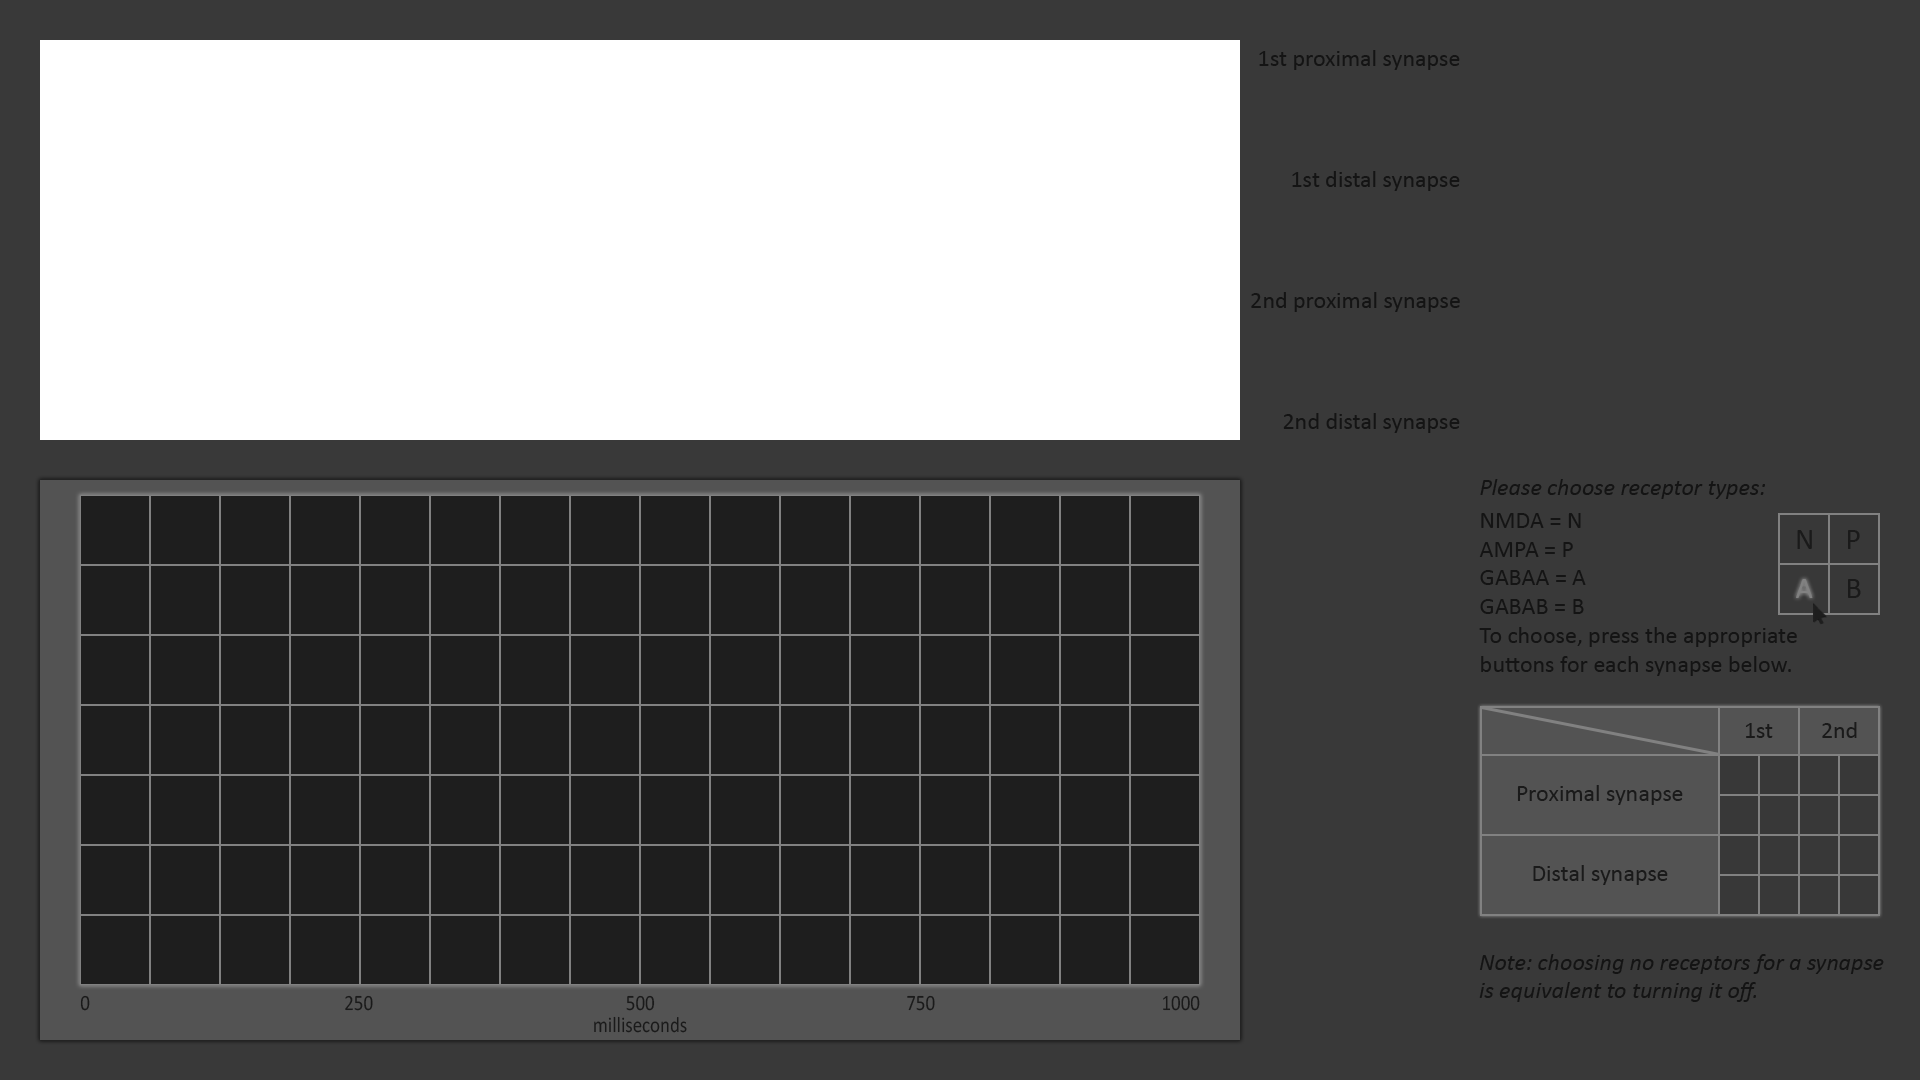
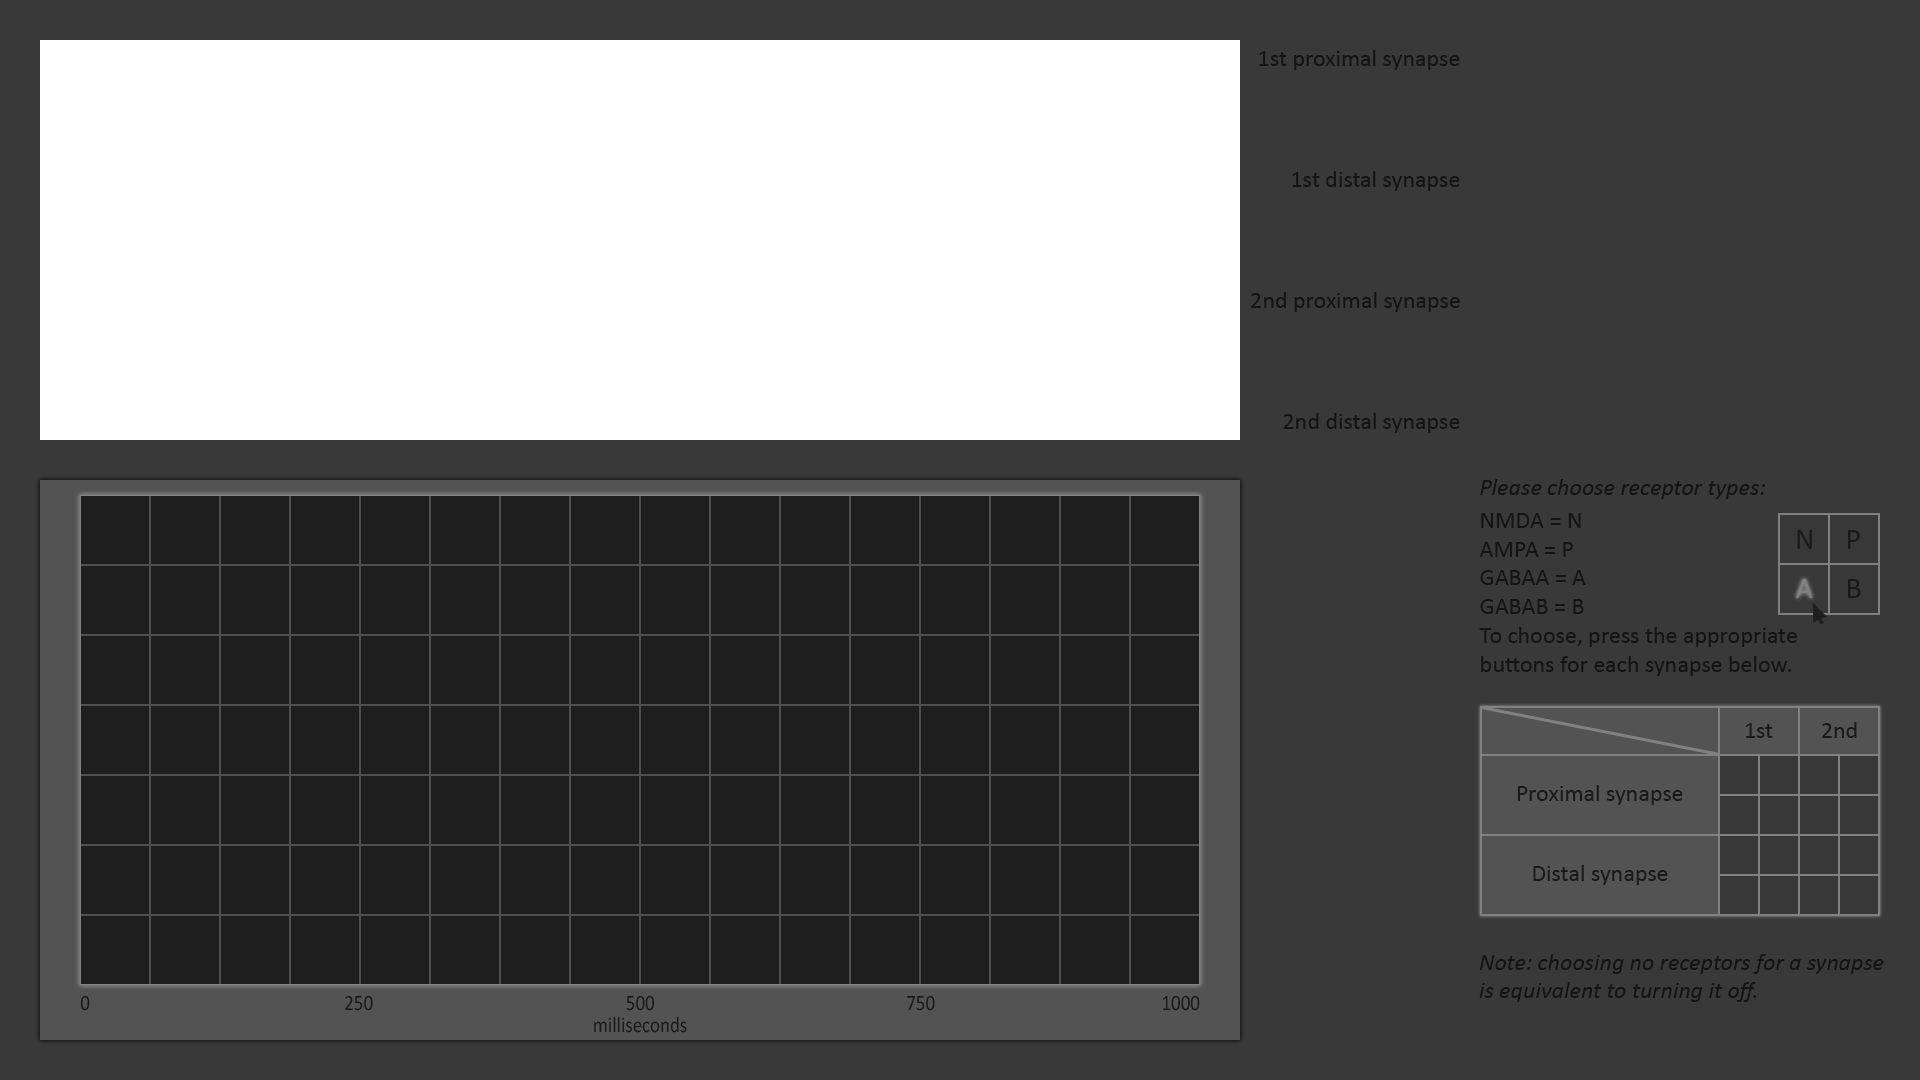
resizing plotting (final?) and darkening oscilloscope

diff --git a/exect_hh.py b/exect_hh.py
@@ -299,30 +299,35 @@ def calculate(timing, strength, caching):
             '''
             if does_cache:
                 holder_list.append(y)
-                fig, ax = plt.subplots(figsize=(15.2, 6.335)) 
+                fig, ax = plt.subplots(figsize=(15.15, 6.335)) 
                 for plots in holder_list[:len(holder_list)-1]:
                     ax.plot(x, plots, '#d2d2d2', alpha = 0)
                 ax.plot(x, holder_list[-1],'#d2d2d2') 
                 ax.yaxis.set_major_formatter(FormatStrFormatter('%.1f'))
-                ax.set_xlim(xmin=-5.0)
-                fig_c, ax_c = plt.subplots(figsize=(15.2, 6.335)) 
+                ax.set_xlim(xmin=-2.0)
+                ax.tick_params(pad=0.0, labelsize=10, length=2, labelcolor='#1a1a1a')
+                fig_c, ax_c = plt.subplots(figsize=(15.15, 6.335)) 
                 for plots in holder_list[:len(holder_list)-1]:
                     ax_c.plot(x, plots, '#404040')
                 ax_c.plot(x, holder_list[-1],'#d2d2d2', alpha=0)
-                ax_c.set_xlim(xmin=-5.0)
+                ax_c.set_xlim(xmin=-2.0)
+                ax_c.tick_params(pad=0.0, labelsize=10, length=2, labelcolor='#1a1a1a')
                 ax_c.yaxis.set_major_formatter(FormatStrFormatter('%.1f'))
                 print('success cache')
                 return fig, ax, fig_c, ax_c, [min(y)/volt, max(y)/volt]
             else: 
                 holder_list = []
                 holder_list.append(y)
-                fig, ax = plt.subplots(figsize=(15.2, 6.335)) 
+                fig, ax = plt.subplots(figsize=(15.15, 6.335)) 
                 # 13.13, 5.67
                 ax.plot(x, y, '#d2d2d2')
-                ax.set_xlim(xmin=-5.0)
-                fig_c, ax_c = plt.subplots(figsize=(15.2, 6.335)) 
+                ax.set_xlim(xmin=-2.0)
+                ax.tick_params(pad=0.0, labelsize=10, length=2, labelcolor='#1a1a1a')
+                fig_c, ax_c = plt.subplots(figsize=(15.15, 6.335)) 
                 #это ось
                 ax_c.plot(x, y, '#404040', alpha = 0)
+                ax_c.set_xlim(xmin=-2.0)
+                ax_c.tick_params(pad=0.0, labelsize=10, length=2, labelcolor='#1a1a1a')
                 ax.yaxis.set_major_formatter(FormatStrFormatter('%.1f'))
                 print('success no cache')
                 return fig, ax, fig_c, ax_c, [min(y)/volt, max(y)/volt]

diff --git a/classes.py b/classes.py
@@ -7,7 +7,7 @@ from pyglet.event import EventDispatcher
 class HelloWorldWindow(pyglet.window.Window):
     def __init__(self, spike_times, width, height):
         super().__init__(width, height)
-        self.plot_sprite = pyglet.sprite.Sprite(image.load('png/plotting/empty.png'), -114, 75) 
+        self.plot_sprite = pyglet.sprite.Sprite(image.load('png/plotting/empty.png'), -110, 75) 
         self.plot_wait = pyglet.sprite.Sprite(image.load('png/plotting/empty.png'),0, 0)
         self.window_batch = pyglet.graphics.Batch()
         self._spike_times = spike_times
